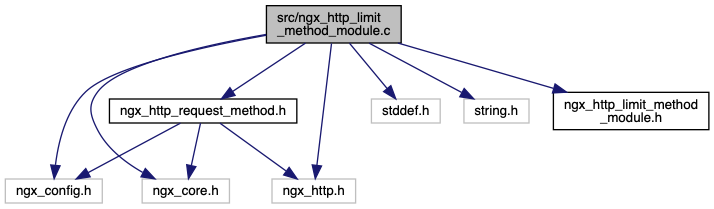
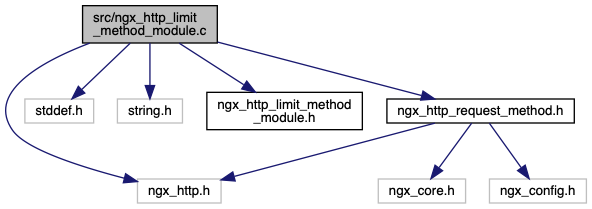
Update docs

diff --git a/ngx__http__request__method_8h_source.html b/ngx__http__request__method_8h_source.html
@@ -70,8 +70,8 @@ $(function() {
 <div class="title">ngx_http_request_method.h</div>  </div>
 </div><!--header-->
 <div class="contents">
-<a href="ngx__http__request__method_8h.html">Go to the documentation of this file.</a><div class="fragment"><div class="line"><a name="l00001"></a><span class="lineno">    1</span>&#160;</div><div class="line"><a name="l00009"></a><span class="lineno">    9</span>&#160;<span class="preprocessor">#ifndef LIMIT_METHOD_NGINX_MODULE_NGX_HTTP_REQUEST_METHOD_HASH_H</span></div><div class="line"><a name="l00010"></a><span class="lineno">   10</span>&#160;<span class="preprocessor">#define LIMIT_METHOD_NGINX_MODULE_NGX_HTTP_REQUEST_METHOD_HASH_H</span></div><div class="line"><a name="l00011"></a><span class="lineno">   11</span>&#160;</div><div class="line"><a name="l00012"></a><span class="lineno">   12</span>&#160;<span class="preprocessor">#include &lt;ngx_core.h&gt;</span></div><div class="line"><a name="l00013"></a><span class="lineno">   13</span>&#160;<span class="preprocessor">#include &lt;ngx_config.h&gt;</span></div><div class="line"><a name="l00014"></a><span class="lineno">   14</span>&#160;<span class="preprocessor">#include &lt;ngx_http.h&gt;</span></div><div class="line"><a name="l00015"></a><span class="lineno">   15</span>&#160;</div><div class="line"><a name="l00016"></a><span class="lineno">   16</span>&#160;<span class="keyword">extern</span> ngx_int_t</div><div class="line"><a name="l00017"></a><span class="lineno">   17</span>&#160;<a class="code" href="ngx__http__request__method_8h.html#a508d8d4145545e15f9372c8569962edd">ngx_http_request_method_contains_number</a> (ngx_array_t method_numbers, ngx_uint_t method_number);</div><div class="line"><a name="l00018"></a><span class="lineno">   18</span>&#160;</div><div class="line"><a name="l00019"></a><span class="lineno">   19</span>&#160;<span class="keyword">extern</span> ngx_array_t *</div><div class="line"><a name="l00020"></a><span class="lineno">   20</span>&#160;<a class="code" href="ngx__http__request__method_8h.html#a646ce87d94f2713f508a823012ac1e02">ngx_http_request_method_names_to_numbers</a> (ngx_conf_t * cf, ngx_array_t method_names);</div><div class="line"><a name="l00021"></a><span class="lineno">   21</span>&#160;</div><div class="line"><a name="l00022"></a><span class="lineno">   22</span>&#160;<span class="preprocessor">#endif //LIMIT_METHOD_NGINX_MODULE_NGX_HTTP_REQUEST_METHOD_HASH_H</span></div><div class="ttc" id="ngx__http__request__method_8h_html_a646ce87d94f2713f508a823012ac1e02"><div class="ttname"><a href="ngx__http__request__method_8h.html#a646ce87d94f2713f508a823012ac1e02">ngx_http_request_method_names_to_numbers</a></div><div class="ttdeci">ngx_array_t * ngx_http_request_method_names_to_numbers(ngx_conf_t *cf, ngx_array_t method_names)</div><div class="ttdef"><b>Definition:</b> ngx_http_request_method.c:48</div></div>
-<div class="ttc" id="ngx__http__request__method_8h_html_a508d8d4145545e15f9372c8569962edd"><div class="ttname"><a href="ngx__http__request__method_8h.html#a508d8d4145545e15f9372c8569962edd">ngx_http_request_method_contains_number</a></div><div class="ttdeci">ngx_int_t ngx_http_request_method_contains_number(ngx_array_t method_numbers, ngx_uint_t method_number)</div><div class="ttdef"><b>Definition:</b> ngx_http_request_method.c:32</div></div>
+<a href="ngx__http__request__method_8h.html">Go to the documentation of this file.</a><div class="fragment"><div class="line"><a name="l00001"></a><span class="lineno">    1</span>&#160;</div><div class="line"><a name="l00009"></a><span class="lineno">    9</span>&#160;<span class="preprocessor">#ifndef LIMIT_METHOD_NGINX_MODULE_NGX_HTTP_REQUEST_METHOD_HASH_H</span></div><div class="line"><a name="l00010"></a><span class="lineno">   10</span>&#160;<span class="preprocessor">#define LIMIT_METHOD_NGINX_MODULE_NGX_HTTP_REQUEST_METHOD_HASH_H</span></div><div class="line"><a name="l00011"></a><span class="lineno">   11</span>&#160;</div><div class="line"><a name="l00012"></a><span class="lineno">   12</span>&#160;<span class="preprocessor">#include &lt;ngx_core.h&gt;</span></div><div class="line"><a name="l00013"></a><span class="lineno">   13</span>&#160;<span class="preprocessor">#include &lt;ngx_config.h&gt;</span></div><div class="line"><a name="l00014"></a><span class="lineno">   14</span>&#160;<span class="preprocessor">#include &lt;ngx_http.h&gt;</span></div><div class="line"><a name="l00015"></a><span class="lineno">   15</span>&#160;</div><div class="line"><a name="l00016"></a><span class="lineno">   16</span>&#160;<span class="keyword">extern</span> ngx_int_t</div><div class="line"><a name="l00017"></a><span class="lineno">   17</span>&#160;<a class="code" href="ngx__http__request__method_8h.html#a508d8d4145545e15f9372c8569962edd">ngx_http_request_method_contains_number</a> (ngx_array_t method_numbers, ngx_uint_t method_number);</div><div class="line"><a name="l00018"></a><span class="lineno">   18</span>&#160;</div><div class="line"><a name="l00019"></a><span class="lineno">   19</span>&#160;<span class="keyword">extern</span> ngx_array_t *</div><div class="line"><a name="l00020"></a><span class="lineno">   20</span>&#160;<a class="code" href="ngx__http__request__method_8h.html#a646ce87d94f2713f508a823012ac1e02">ngx_http_request_method_names_to_numbers</a> (ngx_conf_t * cf, ngx_array_t method_names);</div><div class="line"><a name="l00021"></a><span class="lineno">   21</span>&#160;</div><div class="line"><a name="l00022"></a><span class="lineno">   22</span>&#160;<span class="preprocessor">#endif //LIMIT_METHOD_NGINX_MODULE_NGX_HTTP_REQUEST_METHOD_HASH_H</span></div><div class="ttc" id="ngx__http__request__method_8h_html_a646ce87d94f2713f508a823012ac1e02"><div class="ttname"><a href="ngx__http__request__method_8h.html#a646ce87d94f2713f508a823012ac1e02">ngx_http_request_method_names_to_numbers</a></div><div class="ttdeci">ngx_array_t * ngx_http_request_method_names_to_numbers(ngx_conf_t *cf, ngx_array_t method_names)</div><div class="ttdef"><b>Definition:</b> ngx_http_request_method.c:47</div></div>
+<div class="ttc" id="ngx__http__request__method_8h_html_a508d8d4145545e15f9372c8569962edd"><div class="ttname"><a href="ngx__http__request__method_8h.html#a508d8d4145545e15f9372c8569962edd">ngx_http_request_method_contains_number</a></div><div class="ttdeci">ngx_int_t ngx_http_request_method_contains_number(ngx_array_t method_numbers, ngx_uint_t method_number)</div><div class="ttdef"><b>Definition:</b> ngx_http_request_method.c:31</div></div>
 </div><!-- fragment --></div><!-- contents -->
 <!-- start footer part -->
 <hr class="footer"/><address class="footer"><small>

diff --git a/ngx__http__limit__method__module_8c.html b/ngx__http__limit__method__module_8c.html
@@ -76,9 +76,7 @@ $(function() {
 
 <p>Nginx module that allows limiting locations by request method with a fallback.  
 <a href="#details">More...</a></p>
-<div class="textblock"><code>#include &lt;ngx_config.h&gt;</code><br />
-<code>#include &lt;ngx_core.h&gt;</code><br />
-<code>#include &lt;ngx_http.h&gt;</code><br />
+<div class="textblock"><code>#include &lt;ngx_http.h&gt;</code><br />
 <code>#include &lt;stddef.h&gt;</code><br />
 <code>#include &lt;string.h&gt;</code><br />
 <code>#include &quot;<a class="el" href="ngx__http__limit__method__module_8h_source.html">ngx_http_limit_method_module.h</a>&quot;</code><br />
@@ -88,14 +86,14 @@ Include dependency graph for ngx_http_limit_method_module.c:</div>
 <div class="dyncontent">
 <div class="center"><img src="ngx__http__limit__method__module_8c__incl.png" border="0" usemap="#src_2ngx__http__limit__method__module_8c" alt=""/></div>
 <map name="src_2ngx__http__limit__method__module_8c" id="src_2ngx__http__limit__method__module_8c">
-<area shape="rect"  title="Nginx module that allows limiting locations by request method with a fallback." alt="" coords="266,5,401,44"/>
-<area shape="rect"  title=" " alt="" coords="5,179,102,204"/>
-<area shape="rect"  title=" " alt="" coords="142,179,229,204"/>
-<area shape="rect"  title=" " alt="" coords="272,179,356,204"/>
-<area shape="rect"  title=" " alt="" coords="371,99,440,124"/>
-<area shape="rect"  title=" " alt="" coords="464,99,529,124"/>
-<area shape="rect"  href="ngx__http__limit__method__module_8h.html" title="Empty header file." alt="" coords="553,92,709,131"/>
-<area shape="rect"  href="ngx__http__request__method_8h.html" title="Public interface for ngx_http_request_method." alt="" coords="109,99,297,124"/>
+<area shape="rect"  title="Nginx module that allows limiting locations by request method with a fallback." alt="" coords="83,5,217,44"/>
+<area shape="rect"  title=" " alt="" coords="137,179,221,204"/>
+<area shape="rect"  title=" " alt="" coords="25,99,94,124"/>
+<area shape="rect"  title=" " alt="" coords="117,99,182,124"/>
+<area shape="rect"  href="ngx__http__limit__method__module_8h.html" title="Empty header file." alt="" coords="207,92,362,131"/>
+<area shape="rect"  href="ngx__http__request__method_8h.html" title="Public interface for ngx_http_request_method." alt="" coords="387,99,574,124"/>
+<area shape="rect"  title=" " alt="" coords="378,179,466,204"/>
+<area shape="rect"  title=" " alt="" coords="489,179,586,204"/>
 </map>
 </div>
 </div><table class="memberdecls">

diff --git a/ngx__http__request__method_8c.html b/ngx__http__request__method_8c.html
@@ -75,20 +75,19 @@ $(function() {
 
 <p>Manages configured request methods for ngx_http_limit_method_module.  
 <a href="#details">More...</a></p>
-<div class="textblock"><code>#include &lt;ngx_http.h&gt;</code><br />
-<code>#include &lt;stdio.h&gt;</code><br />
+<div class="textblock"><code>#include &lt;stdio.h&gt;</code><br />
 <code>#include &quot;<a class="el" href="ngx__http__request__method_8h_source.html">ngx_http_request_method.h</a>&quot;</code><br />
 </div><div class="textblock"><div class="dynheader">
 Include dependency graph for ngx_http_request_method.c:</div>
 <div class="dyncontent">
 <div class="center"><img src="ngx__http__request__method_8c__incl.png" border="0" usemap="#src_2ngx__http__request__method_8c" alt=""/></div>
 <map name="src_2ngx__http__request__method_8c" id="src_2ngx__http__request__method_8c">
-<area shape="rect"  title="Manages configured request methods for ngx_http_limit_method_module." alt="" coords="5,5,151,44"/>
-<area shape="rect"  title=" " alt="" coords="22,165,105,191"/>
-<area shape="rect"  title=" " alt="" coords="48,92,109,117"/>
-<area shape="rect"  href="ngx__http__request__method_8h.html" title="Public interface for ngx_http_request_method." alt="" coords="133,92,320,117"/>
-<area shape="rect"  title=" " alt="" coords="156,165,243,191"/>
-<area shape="rect"  title=" " alt="" coords="267,165,364,191"/>
+<area shape="rect"  title="Manages configured request methods for ngx_http_limit_method_module." alt="" coords="36,5,182,44"/>
+<area shape="rect"  title=" " alt="" coords="5,92,66,117"/>
+<area shape="rect"  href="ngx__http__request__method_8h.html" title="Public interface for ngx_http_request_method." alt="" coords="90,92,277,117"/>
+<area shape="rect"  title=" " alt="" coords="24,165,111,191"/>
+<area shape="rect"  title=" " alt="" coords="135,165,232,191"/>
+<area shape="rect"  title=" " alt="" coords="257,165,340,191"/>
 </map>
 </div>
 </div><table class="memberdecls">
